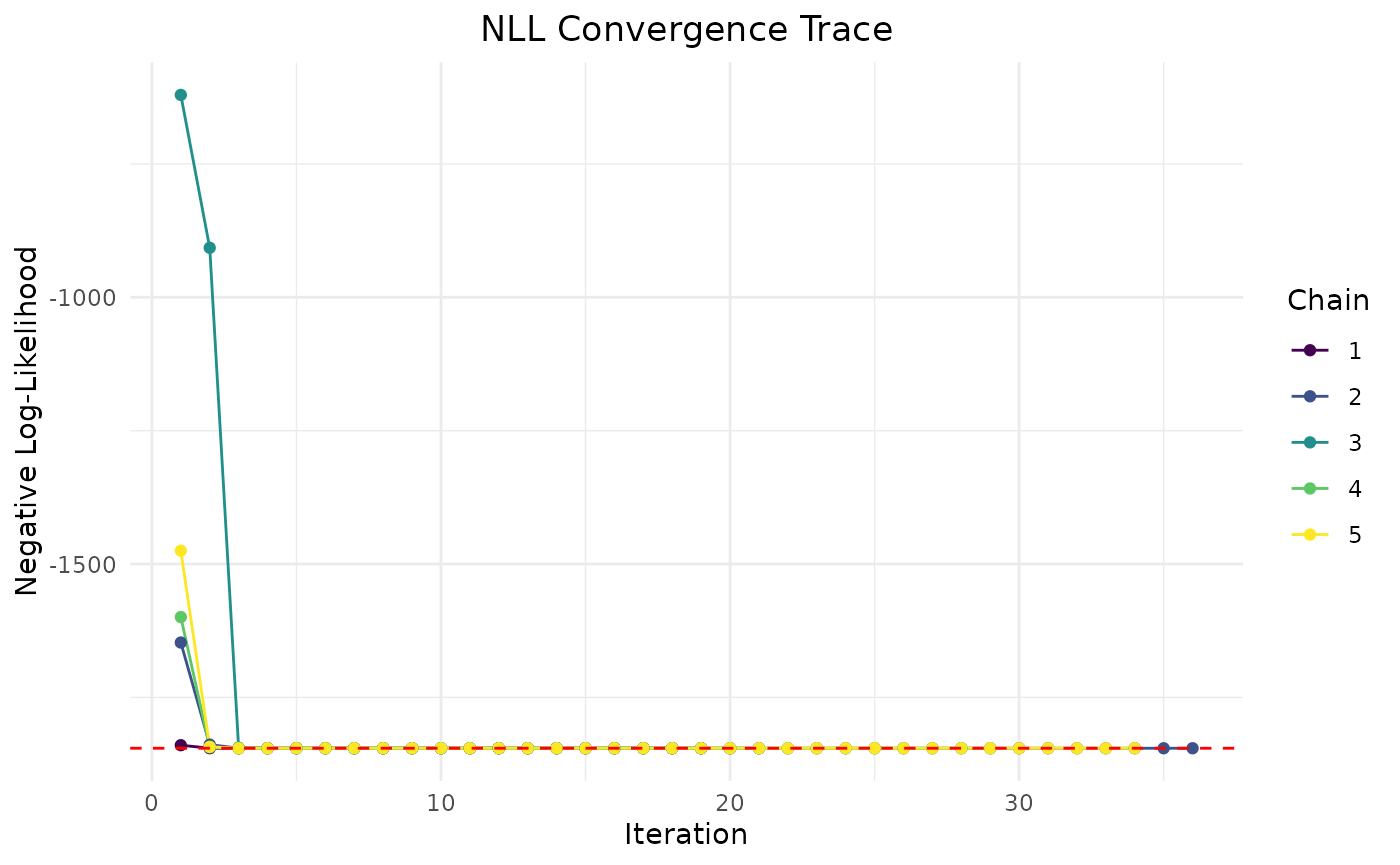
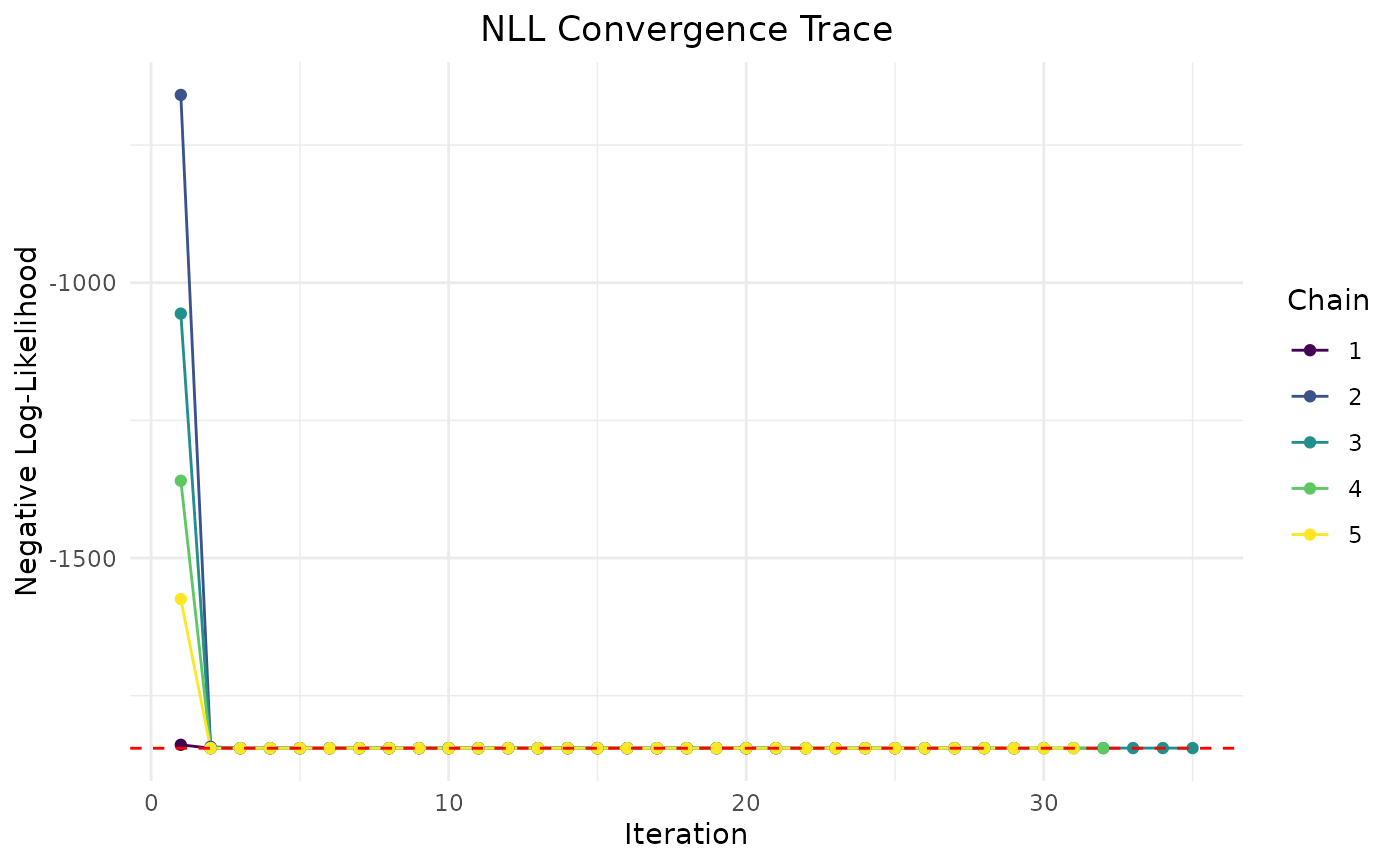
Deploying to gh-pages from @ hiddevandebeek/admr@b7911be41b1c47584335aad2a50ec553ccd24709 🚀

diff --git a/articles/admr.html b/articles/admr.html
@@ -5,12 +5,12 @@
 <meta charset="utf-8">
 <meta http-equiv="X-UA-Compatible" content="IE=edge">
 <meta name="viewport" content="width=device-width, initial-scale=1, shrink-to-fit=no">
-<title>First use case example • admr</title>
+<title>Get started with `admr` • admr</title>
 <script src="../deps/jquery-3.6.0/jquery-3.6.0.min.js"></script><meta name="viewport" content="width=device-width, initial-scale=1, shrink-to-fit=no">
 <link href="../deps/bootstrap-5.3.1/bootstrap.min.css" rel="stylesheet">
 <script src="../deps/bootstrap-5.3.1/bootstrap.bundle.min.js"></script><link href="../deps/font-awesome-6.5.2/css/all.min.css" rel="stylesheet">
 <link href="../deps/font-awesome-6.5.2/css/v4-shims.min.css" rel="stylesheet">
-<script src="../deps/headroom-0.11.0/headroom.min.js"></script><script src="../deps/headroom-0.11.0/jQuery.headroom.min.js"></script><script src="../deps/bootstrap-toc-1.0.1/bootstrap-toc.min.js"></script><script src="../deps/clipboard.js-2.0.11/clipboard.min.js"></script><script src="../deps/search-1.0.0/autocomplete.jquery.min.js"></script><script src="../deps/search-1.0.0/fuse.min.js"></script><script src="../deps/search-1.0.0/mark.min.js"></script><!-- pkgdown --><script src="../pkgdown.js"></script><meta property="og:title" content="First use case example">
+<script src="../deps/headroom-0.11.0/headroom.min.js"></script><script src="../deps/headroom-0.11.0/jQuery.headroom.min.js"></script><script src="../deps/bootstrap-toc-1.0.1/bootstrap-toc.min.js"></script><script src="../deps/clipboard.js-2.0.11/clipboard.min.js"></script><script src="../deps/search-1.0.0/autocomplete.jquery.min.js"></script><script src="../deps/search-1.0.0/fuse.min.js"></script><script src="../deps/search-1.0.0/mark.min.js"></script><!-- pkgdown --><script src="../pkgdown.js"></script><meta property="og:title" content="Get started with `admr`">
 </head>
 <body>
     <a href="#main" class="visually-hidden-focusable">Skip to contents</a>
@@ -57,7 +57,7 @@
 <div class="row">
   <main id="main" class="col-md-9"><div class="page-header">
 
-      <h1>First use case example</h1>
+      <h1>Get started with `admr`</h1>
             
       
       <small class="dont-index">Source: <a href="https://github.com/hiddevandebeek/admr/blob/master/vignettes/admr.Rmd" class="external-link"><code>vignettes/admr.Rmd</code></a></small>
@@ -191,12 +191,6 @@ function is the g function for the two-compartment model.</p>
 <span>    <span class="co"># Return matrix of predicted concentrations</span></span>
 <span>    <span class="kw"><a href="https://rdrr.io/r/base/function.html" class="external-link">return</a></span><span class="op">(</span><span class="va">cp_matrix</span><span class="op">)</span></span>
 <span><span class="op">}</span></span></code></pre></div>
-<p>Model g generates individual-specific parameter values theta_i based
-on random effects bi.</p>
-<div class="sourceCode" id="cb7"><pre class="downlit sourceCode r">
-<code class="sourceCode R"><span><span class="va">twocomp_g</span> <span class="op">&lt;-</span> <span class="kw">function</span><span class="op">(</span><span class="va">beta</span>,<span class="va">bi</span><span class="op">=</span><span class="fu"><a href="https://rdrr.io/r/base/rep.html" class="external-link">rep</a></span><span class="op">(</span><span class="fl">0</span>,<span class="fu"><a href="https://rdrr.io/r/base/length.html" class="external-link">length</a></span><span class="op">(</span><span class="va">beta</span><span class="op">)</span><span class="op">)</span>,<span class="va">ai</span><span class="op">)</span> <span class="op">{</span></span>
-<span>  <span class="va">beta</span><span class="op">*</span><span class="fu"><a href="https://rdrr.io/r/base/Log.html" class="external-link">exp</a></span><span class="op">(</span><span class="va">bi</span><span class="op">)</span></span>
-<span><span class="op">}</span></span></code></pre></div>
 <p>This opts object contains the options for the <code>admr</code>
 package. The <code>genopts</code> function generates the options object.
 IT</p>
@@ -215,6 +209,8 @@ evaluated.</li>
 <ul>
 <li><p>Values for the population parameters (beta) and their covariance
 matrix (Omega).</p></li>
+<li><p>These are either the initial values for the optimization or the
+true values for simulation.</p></li>
 <li><p>Example: list(beta = c(cl = 5, v1 = 10, v2 = 30, q = 10, ka = 1),
 Omega = omegas(.09, 0, 5)).</p></li>
 </ul>
@@ -230,6 +226,8 @@ time.</p></li>
 <li>n:
 <ul>
 <li><p>Number of individuals in the dataset.</p></li>
+<li><p>This is used for the Objective Function Value (OFV), AIC, and BIC
+calculation.</p></li>
 <li><p>Example: 500.</p></li>
 </ul>
 </li>
@@ -238,14 +236,6 @@ time.</p></li>
 <li><p>Currently not used (future implementation).</p></li>
 <li><p>Intended to define auxiliary distributions for covariates or
 additional random effects.</p></li>
-</ul>
-</li>
-<li>g:
-<ul>
-<li><p>The mapping function (g) that generates individual-specific
-parameters (theta_i) from population parameters (beta) and random
-effects (bi).</p></li>
-<li><p>Example: twocomp_g.</p></li>
 </ul>
 </li>
 <li>interact:
@@ -277,14 +267,6 @@ estimation to account for uncertainty.</p></li>
 during sampling.</p></li>
 </ul>
 </li>
-<li>p_thetai:
-<ul>
-<li><p>Function that calculates the log-density of the random effects
-(bi) under a multivariate normal distribution.</p></li>
-<li><p>Used to evaluate how likely the random effects are, given the
-parameters and their covariance.</p></li>
-</ul>
-</li>
 <li>f:
 <ul>
 <li><p>The prediction function that simulates model outputs based on
@@ -293,16 +275,12 @@ individual parameters.</p></li>
 </ul>
 </li>
 </ol>
-<div class="sourceCode" id="cb8"><pre class="downlit sourceCode r">
+<div class="sourceCode" id="cb7"><pre class="downlit sourceCode r">
 <code class="sourceCode R"><span><span class="va">opts</span> <span class="op">&lt;-</span> <span class="fu"><a href="../reference/genopts.html">genopts</a></span><span class="op">(</span>time<span class="op">=</span><span class="fu"><a href="https://rdrr.io/r/base/c.html" class="external-link">c</a></span><span class="op">(</span><span class="fl">.1</span>,<span class="fl">.25</span>,<span class="fl">.5</span>,<span class="fl">1</span>,<span class="fl">2</span>,<span class="fl">3</span>,<span class="fl">5</span>,<span class="fl">8</span>,<span class="fl">12</span><span class="op">)</span>,</span>
 <span>                  p<span class="op">=</span><span class="fu"><a href="https://rdrr.io/r/base/list.html" class="external-link">list</a></span><span class="op">(</span>beta<span class="op">=</span><span class="fu"><a href="https://rdrr.io/r/base/c.html" class="external-link">c</a></span><span class="op">(</span>cl <span class="op">=</span> <span class="fl">5</span>, v1 <span class="op">=</span> <span class="fl">10</span>, v2 <span class="op">=</span> <span class="fl">30</span>,q <span class="op">=</span> <span class="fl">10</span>, ka <span class="op">=</span> <span class="fl">1</span><span class="op">)</span>,</span>
 <span>                  Omega<span class="op">=</span><span class="fu"><a href="../reference/omegas.html">omegas</a></span><span class="op">(</span><span class="fl">.09</span>,<span class="fl">0</span>,<span class="fl">5</span><span class="op">)</span>,Sigma_prop<span class="op">=</span><span class="fl">0.04</span><span class="op">)</span>,</span>
 <span>                  nsim<span class="op">=</span><span class="fl">2500</span>,n<span class="op">=</span><span class="fl">500</span>,adist<span class="op">=</span><span class="cn">NULL</span>,</span>
-<span>                  g <span class="op">=</span> <span class="va">twocomp_g</span>,</span>
 <span>                  interact<span class="op">=</span><span class="cn">F</span>,fo_appr<span class="op">=</span><span class="cn">F</span>,biseq<span class="op">=</span><span class="cn">NA</span>,omega_expansion<span class="op">=</span><span class="fl">2</span>,</span>
-<span>                  p_thetai<span class="op">=</span><span class="kw">function</span><span class="op">(</span><span class="va">p</span>,<span class="va">origbeta</span>,<span class="va">bi</span><span class="op">)</span> <span class="op">{</span></span>
-<span>                    <span class="fu"><a href="https://rdrr.io/pkg/mnorm/man/dmnorm.html" class="external-link">dmnorm</a></span><span class="op">(</span><span class="va">bi</span>,mean<span class="op">=</span><span class="fu"><a href="https://rdrr.io/r/base/Log.html" class="external-link">log</a></span><span class="op">(</span><span class="va">p</span><span class="op">$</span><span class="va">beta</span><span class="op">/</span><span class="va">origbeta</span><span class="op">)</span>,</span>
-<span>                           sigma<span class="op">=</span><span class="va">p</span><span class="op">$</span><span class="va">Omega</span>,log<span class="op">=</span><span class="cn">TRUE</span><span class="op">)</span><span class="op">$</span><span class="va">den</span><span class="op">}</span>,</span>
 <span>                  f<span class="op">=</span><span class="va">predder</span><span class="op">)</span></span>
 <span></span>
 <span><span class="va">fit</span> <span class="op">&lt;-</span> <span class="fu"><a href="../reference/fitEM.html">fitEM</a></span><span class="op">(</span><span class="va">opts</span>, <span class="va">examplomycin_aggregated</span>, chains <span class="op">=</span> <span class="fl">5</span><span class="op">)</span></span>
@@ -350,101 +328,83 @@ individual parameters.</p></li>
 <span><span class="co">#&gt;   28: -1845.445    1.599    2.312    3.401    2.284    0.022   -2.284   -2.239   -2.357   -2.270   -2.346   -3.235</span></span>
 <span><span class="co">#&gt;   29: -1845.445    1.599    2.312    3.401    2.284    0.022   -2.284   -2.239   -2.357   -2.270   -2.346   -3.235</span></span>
 <span><span class="co">#&gt; </span></span>
-<span><span class="co">#&gt; Chain 1 Complete: Final NLL = -1845.447, Time Elapsed = 6.03 seconds</span></span>
+<span><span class="co">#&gt; Chain 1 Complete: Final NLL = -1845.447, Time Elapsed = 6.38 seconds</span></span>
 <span><span class="co">#&gt;  </span></span>
 <span><span class="co">#&gt; Phase Exploration Phase converged at iteration 13. </span></span>
-<span><span class="co">#&gt; Phase Refinement Phase converged at iteration 14. </span></span>
-<span><span class="co">#&gt; Phase Final Phase converged at iteration 22. </span></span>
-<span><span class="co">#&gt; Phase Final Phase 2 converged at iteration 26. </span></span>
+<span><span class="co">#&gt; Phase Refinement Phase converged at iteration 17. </span></span>
+<span><span class="co">#&gt; Phase Final Phase converged at iteration 18. </span></span>
+<span><span class="co">#&gt; Phase Final Phase 2 converged at iteration 21. </span></span>
 <span><span class="co">#&gt; </span></span>
-<span><span class="co">#&gt; Chain 2 Complete: Final NLL = -1845.443, Time Elapsed = 6.40 seconds</span></span>
+<span><span class="co">#&gt; Chain 2 Complete: Final NLL = -1845.442, Time Elapsed = 6.22 seconds</span></span>
 <span><span class="co">#&gt;  </span></span>
-<span><span class="co">#&gt; Phase Exploration Phase converged at iteration 8. </span></span>
-<span><span class="co">#&gt; Phase Final Phase converged at iteration 22. </span></span>
-<span><span class="co">#&gt; Phase Final Phase 2 converged at iteration 28. </span></span>
+<span><span class="co">#&gt; Phase Exploration Phase converged at iteration 10. </span></span>
+<span><span class="co">#&gt; Phase Final Phase 2 converged at iteration 35. </span></span>
 <span><span class="co">#&gt; </span></span>
-<span><span class="co">#&gt; Chain 3 Complete: Final NLL = -1845.450, Time Elapsed = 7.46 seconds</span></span>
-<span><span class="co">#&gt;  </span></span>
-<span><span class="co">#&gt; Phase Exploration Phase converged at iteration 8. </span></span>
-<span><span class="co">#&gt; Phase Refinement Phase converged at iteration 12. </span></span>
-<span><span class="co">#&gt; Phase Final Phase converged at iteration 14. </span></span>
-<span><span class="co">#&gt; Phase Final Phase 2 converged at iteration 18. </span></span>
-<span><span class="co">#&gt; </span></span>
-<span><span class="co">#&gt; Chain 4 Complete: Final NLL = -1845.442, Time Elapsed = 4.89 seconds</span></span>
+<span><span class="co">#&gt; Chain 3 Complete: Final NLL = -1845.154, Time Elapsed = 8.48 seconds</span></span>
 <span><span class="co">#&gt;  </span></span>
 <span><span class="co">#&gt; Phase Exploration Phase converged at iteration 16. </span></span>
-<span><span class="co">#&gt; Phase Refinement Phase converged at iteration 18. </span></span>
-<span><span class="co">#&gt; Phase Final Phase converged at iteration 22. </span></span>
-<span><span class="co">#&gt; Phase Final Phase 2 converged at iteration 29. </span></span>
+<span><span class="co">#&gt; Phase Refinement Phase converged at iteration 19. </span></span>
+<span><span class="co">#&gt; Phase Final Phase converged at iteration 24. </span></span>
+<span><span class="co">#&gt; Phase Final Phase 2 converged at iteration 32. </span></span>
 <span><span class="co">#&gt; </span></span>
-<span><span class="co">#&gt; Chain 5 Complete: Final NLL = -1845.442, Time Elapsed = 7.47 seconds</span></span>
+<span><span class="co">#&gt; Chain 4 Complete: Final NLL = -1845.442, Time Elapsed = 7.06 seconds</span></span>
+<span><span class="co">#&gt;  </span></span>
+<span><span class="co">#&gt; Phase Exploration Phase converged at iteration 8. </span></span>
+<span><span class="co">#&gt; Phase Refinement Phase converged at iteration 10. </span></span>
+<span><span class="co">#&gt; Phase Final Phase converged at iteration 27. </span></span>
+<span><span class="co">#&gt; Phase Final Phase 2 converged at iteration 31. </span></span>
+<span><span class="co">#&gt; </span></span>
+<span><span class="co">#&gt; Chain 5 Complete: Final NLL = -1845.443, Time Elapsed = 7.26 seconds</span></span>
 <span><span class="co">#&gt; </span></span></code></pre></div>
 <p>This is the output of the <code>fitEM</code> function.</p>
-<div class="sourceCode" id="cb9"><pre class="downlit sourceCode r">
+<div class="sourceCode" id="cb8"><pre class="downlit sourceCode r">
 <code class="sourceCode R"><span><span class="fu"><a href="https://rdrr.io/r/base/print.html" class="external-link">print</a></span><span class="op">(</span><span class="va">fit</span><span class="op">)</span></span>
 <span><span class="co">#&gt; -- FitEM Summary --</span></span>
 <span><span class="co">#&gt; </span></span>
 <span><span class="co">#&gt; -- Objective Function and Information Criteria --</span></span>
-<span><span class="co">#&gt;  Log-likelihood: -1845.4496</span></span>
-<span><span class="co">#&gt;             AIC: 3701.90</span></span>
-<span><span class="co">#&gt;             BIC: 3759.26</span></span>
-<span><span class="co">#&gt; Condition#(Cov): 152.62</span></span>
-<span><span class="co">#&gt; Condition#(Cor): 218.72</span></span>
+<span><span class="co">#&gt;  Log-likelihood: -1845.4467</span></span>
+<span><span class="co">#&gt;             AIC: 3701.89</span></span>
+<span><span class="co">#&gt;             BIC: 3759.25</span></span>
+<span><span class="co">#&gt; Condition#(Cov): 156.74</span></span>
+<span><span class="co">#&gt; Condition#(Cor): 225.75</span></span>
 <span><span class="co">#&gt; </span></span>
 <span><span class="co">#&gt; -- Timing Information --</span></span>
-<span><span class="co">#&gt;      Best Chain: 7.4613 seconds</span></span>
-<span><span class="co">#&gt;      All Chains: 32.2437 seconds</span></span>
-<span><span class="co">#&gt;      Covariance: 26.6118 seconds</span></span>
-<span><span class="co">#&gt;         Elapsed: 58.86 seconds</span></span>
+<span><span class="co">#&gt;      Best Chain: 6.3799 seconds</span></span>
+<span><span class="co">#&gt;      All Chains: 35.3944 seconds</span></span>
+<span><span class="co">#&gt;      Covariance: 27.8998 seconds</span></span>
+<span><span class="co">#&gt;         Elapsed: 63.29 seconds</span></span>
 <span><span class="co">#&gt; </span></span>
 <span><span class="co">#&gt; -- Population Parameters --</span></span>
 <span><span class="co">#&gt; <span style="color: #949494;"># A tibble: 6 × 6</span></span></span>
 <span><span class="co">#&gt;   Parameter        Est.      SE  `%RSE` `Back-transformed(95%CI)` `BSV(CV%)`</span></span>
 <span><span class="co">#&gt;   <span style="color: #949494; font-style: italic;">&lt;chr&gt;</span>           <span style="color: #949494; font-style: italic;">&lt;dbl&gt;</span>   <span style="color: #949494; font-style: italic;">&lt;dbl&gt;</span>   <span style="color: #949494; font-style: italic;">&lt;dbl&gt;</span> <span style="color: #949494; font-style: italic;">&lt;chr&gt;</span>                          <span style="color: #949494; font-style: italic;">&lt;dbl&gt;</span></span></span>
 <span><span class="co">#&gt; <span style="color: #BCBCBC;">1</span> cl             1.60    0.015<span style="text-decoration: underline;">2</span>   0.954 4.95 (4.80, 5.10)               31.9</span></span>
-<span><span class="co">#&gt; <span style="color: #BCBCBC;">2</span> v1             2.31    0.086<span style="text-decoration: underline;">9</span>   3.76  10.07 (8.49, 11.94)             32.9</span></span>
-<span><span class="co">#&gt; <span style="color: #BCBCBC;">3</span> v2             3.40    0.040<span style="text-decoration: underline;">0</span>   1.18  30.04 (27.77, 32.49)            30.6</span></span>
-<span><span class="co">#&gt; <span style="color: #BCBCBC;">4</span> q              2.28    0.021<span style="text-decoration: underline;">2</span>   0.930 9.81 (9.41, 10.23)              32.3</span></span>
-<span><span class="co">#&gt; <span style="color: #BCBCBC;">5</span> ka             0.019<span style="text-decoration: underline;">4</span>  0.082<span style="text-decoration: underline;">1</span> 423.    1.02 (0.87, 1.20)               30.7</span></span>
+<span><span class="co">#&gt; <span style="color: #BCBCBC;">2</span> v1             2.31    0.088<span style="text-decoration: underline;">1</span>   3.81  10.09 (8.49, 11.99)             32.7</span></span>
+<span><span class="co">#&gt; <span style="color: #BCBCBC;">3</span> v2             3.40    0.040<span style="text-decoration: underline;">4</span>   1.19  30.00 (27.72, 32.47)            30.7</span></span>
+<span><span class="co">#&gt; <span style="color: #BCBCBC;">4</span> q              2.28    0.021<span style="text-decoration: underline;">2</span>   0.928 9.81 (9.41, 10.23)              32.1</span></span>
+<span><span class="co">#&gt; <span style="color: #BCBCBC;">5</span> ka             0.020<span style="text-decoration: underline;">8</span>  0.083<span style="text-decoration: underline;">3</span> 401.    1.02 (0.87, 1.20)               30.9</span></span>
 <span><span class="co">#&gt; <span style="color: #BCBCBC;">6</span> Residual Error 0.039<span style="text-decoration: underline;">4</span> <span style="color: #BB0000;">NA</span>       <span style="color: #BB0000;">NA</span>     0.0394                          <span style="color: #BB0000;">NA</span>  </span></span>
 <span><span class="co">#&gt; </span></span>
 <span><span class="co">#&gt; -- Iteration Diagnostics --</span></span>
 <span><span class="co">#&gt;  Iter | NLL and Parameters</span></span>
 <span><span class="co">#&gt; --------------------------------------------------------------------------------</span></span>
-<span><span class="co">#&gt;    1: -610.642 1.650 2.550 4.095 2.406 0.000 -2.073 -2.305 -2.382 -2.403 -2.263 -3.303</span></span>
-<span><span class="co">#&gt;    2: -1843.809 1.607 2.319 3.411 2.283 0.019 -2.257 -2.379 -2.553 -2.151 -2.250 -3.225</span></span>
-<span><span class="co">#&gt;    3: -1845.450 1.599 2.309 3.403 2.284 0.019 -2.282 -2.223 -2.366 -2.261 -2.362 -3.235</span></span>
-<span><span class="co">#&gt;    4: -1845.447 1.598 2.312 3.401 2.283 0.021 -2.285 -2.230 -2.355 -2.271 -2.355 -3.235</span></span>
-<span><span class="co">#&gt;    5: -1845.446 1.599 2.312 3.401 2.284 0.022 -2.284 -2.236 -2.356 -2.271 -2.351 -3.235</span></span>
-<span><span class="co">#&gt;    6: -1845.444 1.599 2.313 3.401 2.284 0.023 -2.284 -2.240 -2.358 -2.270 -2.345 -3.234</span></span>
-<span><span class="co">#&gt;    7: -1845.444 1.599 2.313 3.401 2.284 0.023 -2.284 -2.240 -2.358 -2.270 -2.345 -3.235</span></span>
-<span><span class="co">#&gt;    8: -1845.444 1.599 2.313 3.401 2.284 0.023 -2.284 -2.240 -2.358 -2.270 -2.345 -3.235</span></span>
-<span><span class="co">#&gt;    9: -1845.448 1.599 2.311 3.401 2.283 0.021 -2.284 -2.229 -2.359 -2.272 -2.358 -3.234</span></span>
-<span><span class="co">#&gt;   10: -1845.445 1.599 2.312 3.401 2.283 0.022 -2.284 -2.239 -2.358 -2.271 -2.346 -3.234</span></span>
-<span><span class="co">#&gt;   11: -1845.445 1.599 2.313 3.401 2.284 0.022 -2.284 -2.239 -2.357 -2.270 -2.347 -3.235</span></span>
-<span><span class="co">#&gt;   12: -1845.444 1.599 2.313 3.401 2.284 0.023 -2.284 -2.239 -2.358 -2.269 -2.346 -3.235</span></span>
-<span><span class="co">#&gt;   13: -1845.444 1.599 2.313 3.401 2.284 0.023 -2.284 -2.239 -2.358 -2.269 -2.346 -3.235</span></span>
-<span><span class="co">#&gt;   14: -1845.444 1.599 2.313 3.401 2.284 0.023 -2.284 -2.240 -2.358 -2.269 -2.346 -3.235</span></span>
-<span><span class="co">#&gt;   15: -1845.444 1.599 2.313 3.401 2.284 0.023 -2.284 -2.240 -2.358 -2.269 -2.346 -3.235</span></span>
-<span><span class="co">#&gt;   16: -1845.444 1.599 2.313 3.401 2.284 0.023 -2.284 -2.240 -2.358 -2.269 -2.346 -3.235</span></span>
-<span><span class="co">#&gt;   17: -1845.444 1.599 2.313 3.401 2.284 0.023 -2.284 -2.240 -2.358 -2.269 -2.346 -3.235</span></span>
-<span><span class="co">#&gt;   18: -1845.444 1.599 2.313 3.401 2.284 0.023 -2.284 -2.240 -2.358 -2.269 -2.346 -3.235</span></span>
-<span><span class="co">#&gt;   19: -1845.443 1.599 2.314 3.401 2.284 0.023 -2.284 -2.240 -2.357 -2.269 -2.345 -3.234</span></span>
-<span><span class="co">#&gt;   20: -1845.443 1.599 2.314 3.400 2.284 0.023 -2.284 -2.241 -2.357 -2.269 -2.345 -3.235</span></span>
-<span><span class="co">#&gt;   21: -1845.443 1.599 2.314 3.400 2.284 0.023 -2.284 -2.241 -2.357 -2.269 -2.345 -3.235</span></span>
-<span><span class="co">#&gt;   22: -1845.443 1.599 2.314 3.400 2.284 0.023 -2.284 -2.241 -2.358 -2.269 -2.345 -3.235</span></span>
-<span><span class="co">#&gt;   23: -1845.447 1.599 2.312 3.401 2.283 0.022 -2.284 -2.233 -2.359 -2.270 -2.352 -3.235</span></span>
-<span><span class="co">#&gt;   24: -1845.446 1.599 2.312 3.401 2.284 0.022 -2.284 -2.235 -2.358 -2.270 -2.351 -3.235</span></span>
-<span><span class="co">#&gt;   25: -1845.444 1.599 2.313 3.401 2.283 0.022 -2.284 -2.241 -2.358 -2.271 -2.345 -3.235</span></span>
-<span><span class="co">#&gt;   26: -1845.444 1.599 2.312 3.401 2.284 0.022 -2.284 -2.241 -2.357 -2.271 -2.345 -3.234</span></span>
-<span><span class="co">#&gt;   27: -1845.444 1.599 2.312 3.401 2.284 0.022 -2.284 -2.241 -2.358 -2.270 -2.345 -3.235</span></span>
-<span><span class="co">#&gt;   28: -1845.444 1.599 2.313 3.401 2.284 0.022 -2.284 -2.241 -2.357 -2.270 -2.345 -3.235</span></span></code></pre></div>
+<span><span class="co">#&gt;    1: -1839.160 1.609 2.303 3.401 2.303 0.000 -2.408 -2.408 -2.408 -2.408 -2.408 -3.219</span></span>
+<span><span class="co">#&gt;    2: -1845.442 1.599 2.309 3.402 2.284 0.019 -2.286 -2.239 -2.356 -2.279 -2.353 -3.234</span></span>
+<span><span class="co">#&gt;    3: -1845.447 1.599 2.311 3.401 2.283 0.021 -2.284 -2.235 -2.360 -2.272 -2.351 -3.234</span></span>
+<span><span class="co">#&gt;    4: -1845.446 1.599 2.311 3.401 2.283 0.021 -2.284 -2.235 -2.360 -2.273 -2.351 -3.234</span></span>
+<span><span class="co">#&gt;    5: -1845.445 1.599 2.313 3.401 2.284 0.023 -2.284 -2.236 -2.358 -2.268 -2.350 -3.235</span></span>
+<span><span class="co">#&gt;    ... (omitted iterations) ...</span></span>
+<span><span class="co">#&gt;   25: -1845.445 1.599 2.312 3.401 2.284 0.022 -2.284 -2.239 -2.357 -2.271 -2.346 -3.235</span></span>
+<span><span class="co">#&gt;   26: -1845.445 1.599 2.312 3.401 2.284 0.022 -2.284 -2.239 -2.357 -2.271 -2.346 -3.235</span></span>
+<span><span class="co">#&gt;   27: -1845.445 1.599 2.312 3.401 2.284 0.022 -2.284 -2.239 -2.357 -2.270 -2.346 -3.235</span></span>
+<span><span class="co">#&gt;   28: -1845.445 1.599 2.312 3.401 2.284 0.022 -2.284 -2.239 -2.357 -2.270 -2.346 -3.235</span></span>
+<span><span class="co">#&gt;   29: -1845.445 1.599 2.312 3.401 2.284 0.022 -2.284 -2.239 -2.357 -2.270 -2.346 -3.235</span></span></code></pre></div>
 <p>The <code>plot</code> function can be used to visualize the results.
 It shows the convergence of the model fit and parameters by making a
 trace plot of the chains.</p>
-<div class="sourceCode" id="cb10"><pre class="downlit sourceCode r">
+<div class="sourceCode" id="cb9"><pre class="downlit sourceCode r">
 <code class="sourceCode R"><span><span class="fu"><a href="https://rdrr.io/r/graphics/plot.default.html" class="external-link">plot</a></span><span class="op">(</span><span class="va">fit</span><span class="op">)</span></span></code></pre></div>
-<p><img src="admr_files/figure-html/unnamed-chunk-10-1.png" width="700"><img src="admr_files/figure-html/unnamed-chunk-10-2.png" width="700"></p>
+<p><img src="admr_files/figure-html/unnamed-chunk-9-1.png" width="700"><img src="admr_files/figure-html/unnamed-chunk-9-2.png" width="700"></p>
 </div>
 </div>
   </main><aside class="col-md-3"><nav id="toc" aria-label="Table of contents"><h2>On this page</h2>

diff --git a/reference/fitEM.html b/reference/fitEM.html
@@ -55,11 +55,12 @@ likelihood updates with weighted MC updates. This version of the function uses n
 <span>  <span class="va">obs</span>,</span>
 <span>  maxiter <span class="op">=</span> <span class="fl">100</span>,</span>
 <span>  convcrit_nll <span class="op">=</span> <span class="fl">1e-05</span>,</span>
-<span>  nomap <span class="op">=</span> <span class="cn">TRUE</span>,</span>
+<span>  single_dataframe <span class="op">=</span> <span class="cn">TRUE</span>,</span>
 <span>  phase_fractions <span class="op">=</span> <span class="fu"><a href="https://rdrr.io/r/base/c.html" class="external-link">c</a></span><span class="op">(</span><span class="fl">0.2</span>, <span class="fl">0.4</span>, <span class="fl">0.2</span>, <span class="fl">0.2</span><span class="op">)</span>,</span>
 <span>  max_worse_iterations <span class="op">=</span> <span class="fl">10</span>,</span>
 <span>  chains <span class="op">=</span> <span class="fl">1</span>,</span>
-<span>  pertubation <span class="op">=</span> <span class="fl">0.1</span></span>
+<span>  pertubation <span class="op">=</span> <span class="fl">0.1</span>,</span>
+<span>  seed <span class="op">=</span> <span class="fl">1</span></span>
 <span><span class="op">)</span></span></code></pre></div>
     </div>
 
@@ -83,7 +84,7 @@ likelihood updates with weighted MC updates. This version of the function uses n
 <dd><p>convergence criterion for the negative log-likelihood</p></dd>
 
 
-<dt id="arg-nomap">nomap<a class="anchor" aria-label="anchor" href="#arg-nomap"></a></dt>
+<dt id="arg-single-dataframe">single_dataframe<a class="anchor" aria-label="anchor" href="#arg-single-dataframe"></a></dt>
 <dd><p>single model or multiple models</p></dd>
 
 
@@ -101,6 +102,10 @@ likelihood updates with weighted MC updates. This version of the function uses n
 
 <dt id="arg-pertubation">pertubation<a class="anchor" aria-label="anchor" href="#arg-pertubation"></a></dt>
 <dd><p>pertubation factor for the initial parameter values of each chain</p></dd>
+
+
+<dt id="arg-seed">seed<a class="anchor" aria-label="anchor" href="#arg-seed"></a></dt>
+<dd><p>random seed</p></dd>
 
 </dl></div>
     <div class="section level2">

diff --git a/reference/genopts.html b/reference/genopts.html
@@ -52,7 +52,6 @@ likelihood approximations.</p>
     <h2 id="ref-usage">Usage<a class="anchor" aria-label="anchor" href="#ref-usage"></a></h2>
     <div class="sourceCode"><pre class="sourceCode r"><code><span><span class="fu">genopts</span><span class="op">(</span></span>
 <span>  <span class="va">f</span>,</span>
-<span>  <span class="va">g</span>,</span>
 <span>  <span class="va">time</span>,</span>
 <span>  <span class="va">p</span>,</span>
 <span>  <span class="va">h</span>,</span>
@@ -63,7 +62,6 @@ likelihood approximations.</p>
 <span>  fo_appr <span class="op">=</span> <span class="op">(</span><span class="va">nsim</span> <span class="op">&lt;</span> <span class="fl">10</span><span class="op">)</span>,</span>
 <span>  biseq <span class="op">=</span> <span class="cn">NA</span>,</span>
 <span>  omega_expansion <span class="op">=</span> <span class="fl">1</span>,</span>
-<span>  p_thetai <span class="op">=</span> <span class="cn">NA</span>,</span>
 <span>  single_betas <span class="op">=</span> <span class="cn">NA</span></span>
 <span><span class="op">)</span></span></code></pre></div>
     </div>
@@ -74,10 +72,6 @@ likelihood approximations.</p>
 
 <dl><dt id="arg-f">f<a class="anchor" aria-label="anchor" href="#arg-f"></a></dt>
 <dd><p>The likelihood function</p></dd>
-
-
-<dt id="arg-g">g<a class="anchor" aria-label="anchor" href="#arg-g"></a></dt>
-<dd><p>The model function</p></dd>
 
 
 <dt id="arg-time">time<a class="anchor" aria-label="anchor" href="#arg-time"></a></dt>
@@ -118,10 +112,6 @@ likelihood approximations.</p>
 
 <dt id="arg-omega-expansion">omega_expansion<a class="anchor" aria-label="anchor" href="#arg-omega-expansion"></a></dt>
 <dd><p>The expansion factor for the omega matrix</p></dd>
-
-
-<dt id="arg-p-thetai">p_thetai<a class="anchor" aria-label="anchor" href="#arg-p-thetai"></a></dt>
-<dd><p>The theta matrix</p></dd>
 
 
 <dt id="arg-single-betas">single_betas<a class="anchor" aria-label="anchor" href="#arg-single-betas"></a></dt>

diff --git a/articles/index.html b/articles/index.html
@@ -40,7 +40,7 @@
       <h3>All vignettes</h3>
       <div class="section-desc"></div>
 
-      <dl><dt><a href="admr.html">First use case example</a></dt>
+      <dl><dt><a href="admr.html">Get started with `admr`</a></dt>
         <dd>
         </dd><dt><a href="examplomycin.html">Examplomycin dataset</a></dt>
         <dd>
